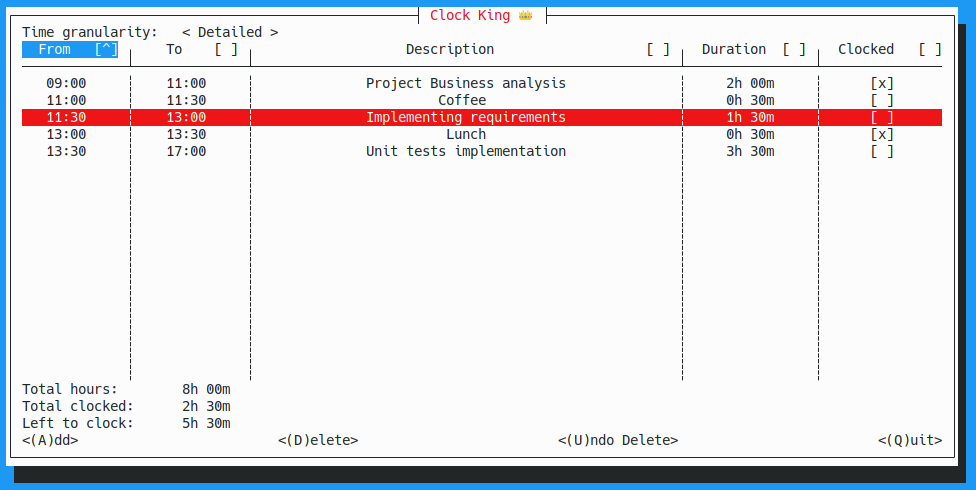
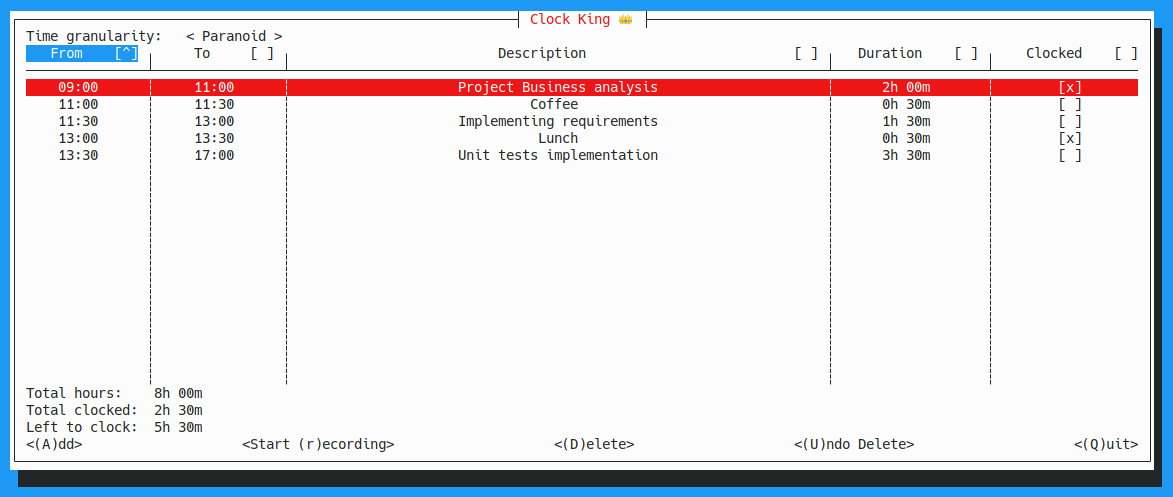
Update screenshots and readme

Changed region(s): [[0.0, 0.0, 1.0, 0.949], [0.0, 0.9796, 1.0, 1.0]]

diff --git a/README.md b/README.md
@@ -17,7 +17,9 @@ Meant as manual task list, where the results can be transferred to a time tracki
 
 Keyboard shortcuts are listed on the screen, spacebar toggles whether an item is clocked or not. 
 
-There is a time-granularity toggle for how detailed you want to be with your tracking.
+There is a time-granularity toggle for how detailed you want to be with your tracking (1h, 30m, 15m, ...)
+
+When recording a task, the end timestamp is rounded to the current granularity.
 
 The executable creates a `./.clockking/db.json` where the current list is stored. There's an autosave loop, and the data
 gets saved when you quit the program normally.
